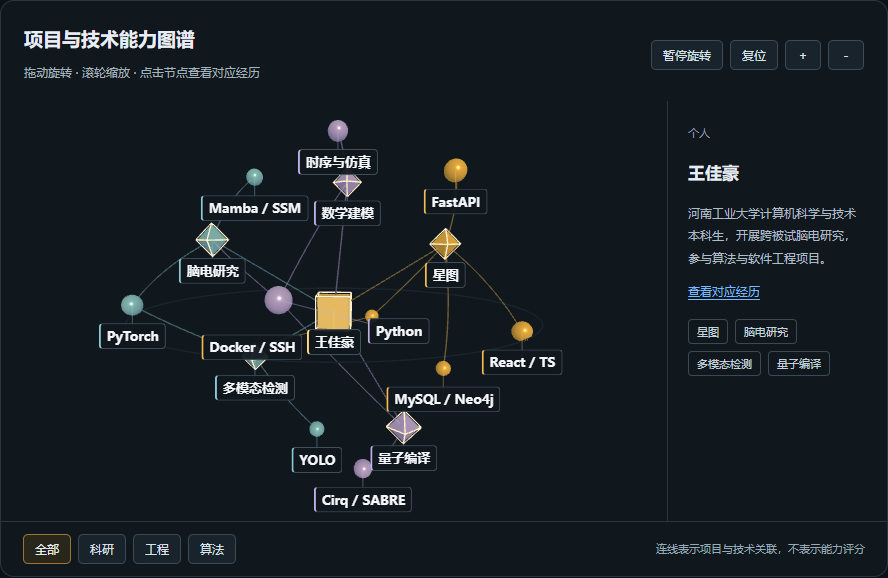
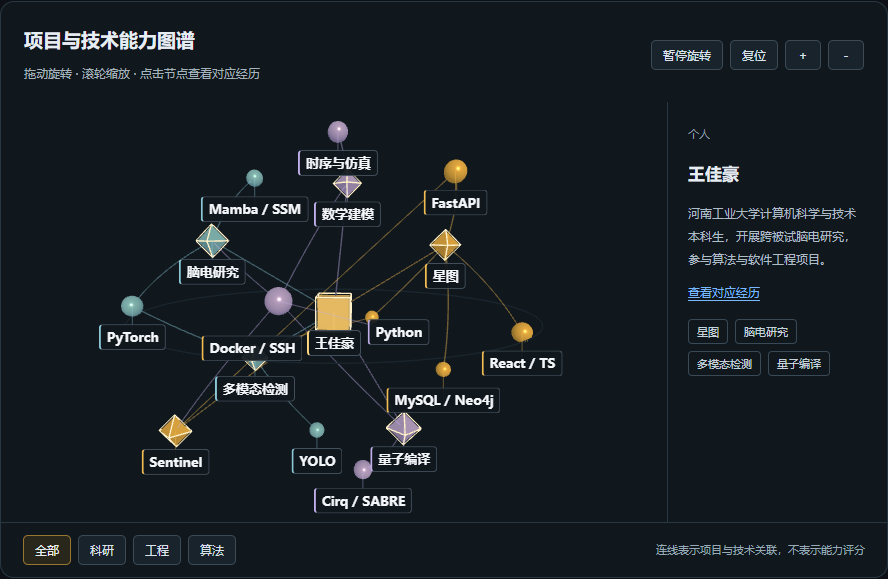
Hide ongoing contests and add Sentinel prototype with private-knowledge safeguards

diff --git a/README.en.md b/README.en.md
@@ -74,6 +74,13 @@ A platform integrating job information, capability graphs, résumé management, 
 
 - Participated in visible-light, infrared, and depth-based object detection, including alignment, feature fusion, and evaluation; awarded Provincial Third Prize.
 
+### [Sentinel · Defensive security triage workbench](https://github.com/Dsegnr/sentinel-secops)
+
+<strong>Personal project · Prototype in development | Technologies:</strong> Python, FastAPI, Jinja2, PowerShell, pytest
+
+- Built a local CLI and Web workbench for public-source domain, URL, IP and email analysis, structured reports, SHA-256 evidence manifests, case archiving and asset/alert management.
+- Implemented Windows baseline comparison and reviewable hardening scripts, with optional LLM report interpretation. Code tests cover core rules and workflows; the public repository excludes personal knowledge, cases and actual configuration.
+
 ### [Noise-adaptive quantum compiler](https://github.com/Dsegnr/ccf-quantum-compiler)
 
 <strong>CCF Quantum Computing Programming Challenge | Role:</strong> algorithm implementation and evaluation
@@ -121,10 +128,6 @@ A platform integrating job information, capability graphs, résumé management, 
 
 - Group Programming Ladder Tournament (中国高校计算机大赛·团体程序设计天梯赛) | 2026 participation
 - China Undergraduate Mathematical Contest in Modeling (高教社杯) | 2026 participation
-- 18th Blue Bridge Cup visual identity and event-IP creative-design special contest, event-IP track | 2026 participation
-- China (International) Sensor Innovation and Entrepreneurship Competition | 2026 participation
-- China International College Students’ Innovation Competition | 2026 participation
-- Challenge Cup open-competition special track (揭榜挂帅专项赛) | 2026 participation
 
 ## Technology stack
 
@@ -144,6 +147,8 @@ A platform integrating job information, capability graphs, résumé management, 
 </p>
 
 ## Open-source repositories
+
+- [sentinel-secops](https://github.com/Dsegnr/sentinel-secops) — Local defensive-security prototype with CLI, Web workbench and tests; excludes personal knowledge and case data.
 
 - [aic2026-multimodal-detection](https://github.com/Dsegnr/aic2026-multimodal-detection) — AIC Provincial Third Prize project: training, inference, evaluation and historical configurations.
 

diff --git a/README.md b/README.md
@@ -84,6 +84,15 @@
 
 - 围绕可见光、红外与深度信息开展多模态目标检测实践，涉及数据对齐、特征融合及模型评测；获省赛三等奖。
 
+### [Sentinel · 安全研判与防御工作台](https://github.com/Dsegnr/sentinel-secops)
+
+<strong>个人项目 · 原型持续完善中</strong>　｜　<strong>技术栈：</strong>Python · FastAPI · Jinja2 · PowerShell · pytest
+
+面向个人与小团队的本地安全研判工具原型，提供命令行和 Web 工作台，串联公开情报查询、证据报告、主机基线检查及发现管理。
+
+- 实现域名／URL、IP 与邮件分析，结构化报告及 SHA-256 证据清单、案件归档、资产与告警管理；提供 Windows 基线差异和可审阅的加固脚本，接入可选 LLM 报告解释。
+- 已有公开代码测试覆盖研判规则、证据导出、基线及告警流程；公开版本不包含个人知识库、案件或实际配置。
+
 ### [噪声自适应量子编译器](https://github.com/Dsegnr/ccf-quantum-compiler)
 
 <strong>CCF 量旋杯 · 算法赛道</strong>　｜　<strong>角色：</strong>算法实现与评测
@@ -143,10 +152,6 @@
 
 - 中国高校计算机大赛 · 团体程序设计天梯赛｜2026 参赛经历
 - 全国大学生数学建模竞赛（高教社杯）｜2026 参赛经历
-- 第十八届蓝桥杯大赛「主视觉与赛事 IP 文创设计」专项赛（赛事 IP 文创设计赛道）｜2026 参赛经历
-- 中国（国际）传感器创新创业大赛｜2026 参赛经历
-- 中国国际大学生创新大赛｜2026 参赛经历
-- “挑战杯”揭榜挂帅专项赛｜2026 参赛经历
 
 ## 技术栈
 
@@ -166,6 +171,8 @@
 </p>
 
 ## 开源仓库
+
+- [sentinel-secops](https://github.com/Dsegnr/sentinel-secops)　Sentinel 本地安全研判与防御工具原型，包含 CLI、Web 工作台与测试，不含知识库和案件数据
 
 - [aic2026-multimodal-detection](https://github.com/Dsegnr/aic2026-multimodal-detection)　AIC 省赛三等奖项目，包含训练、推理、评测与历史实验配置
 
